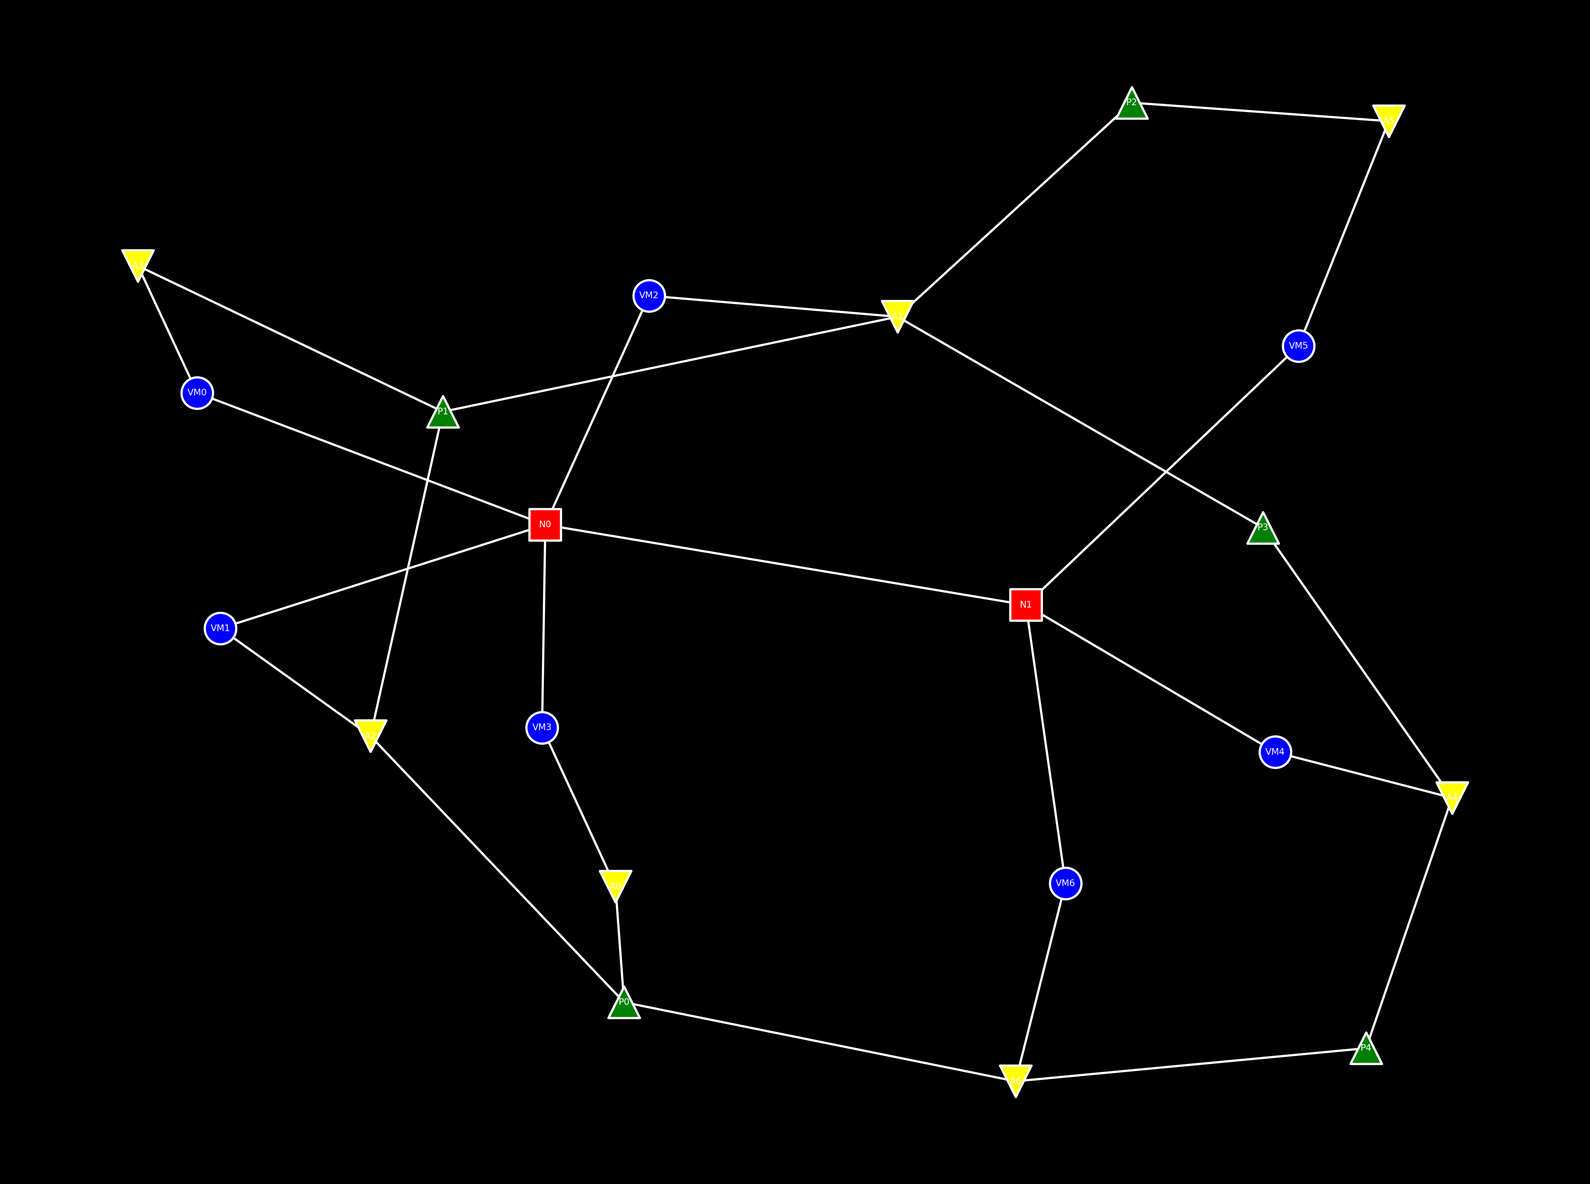
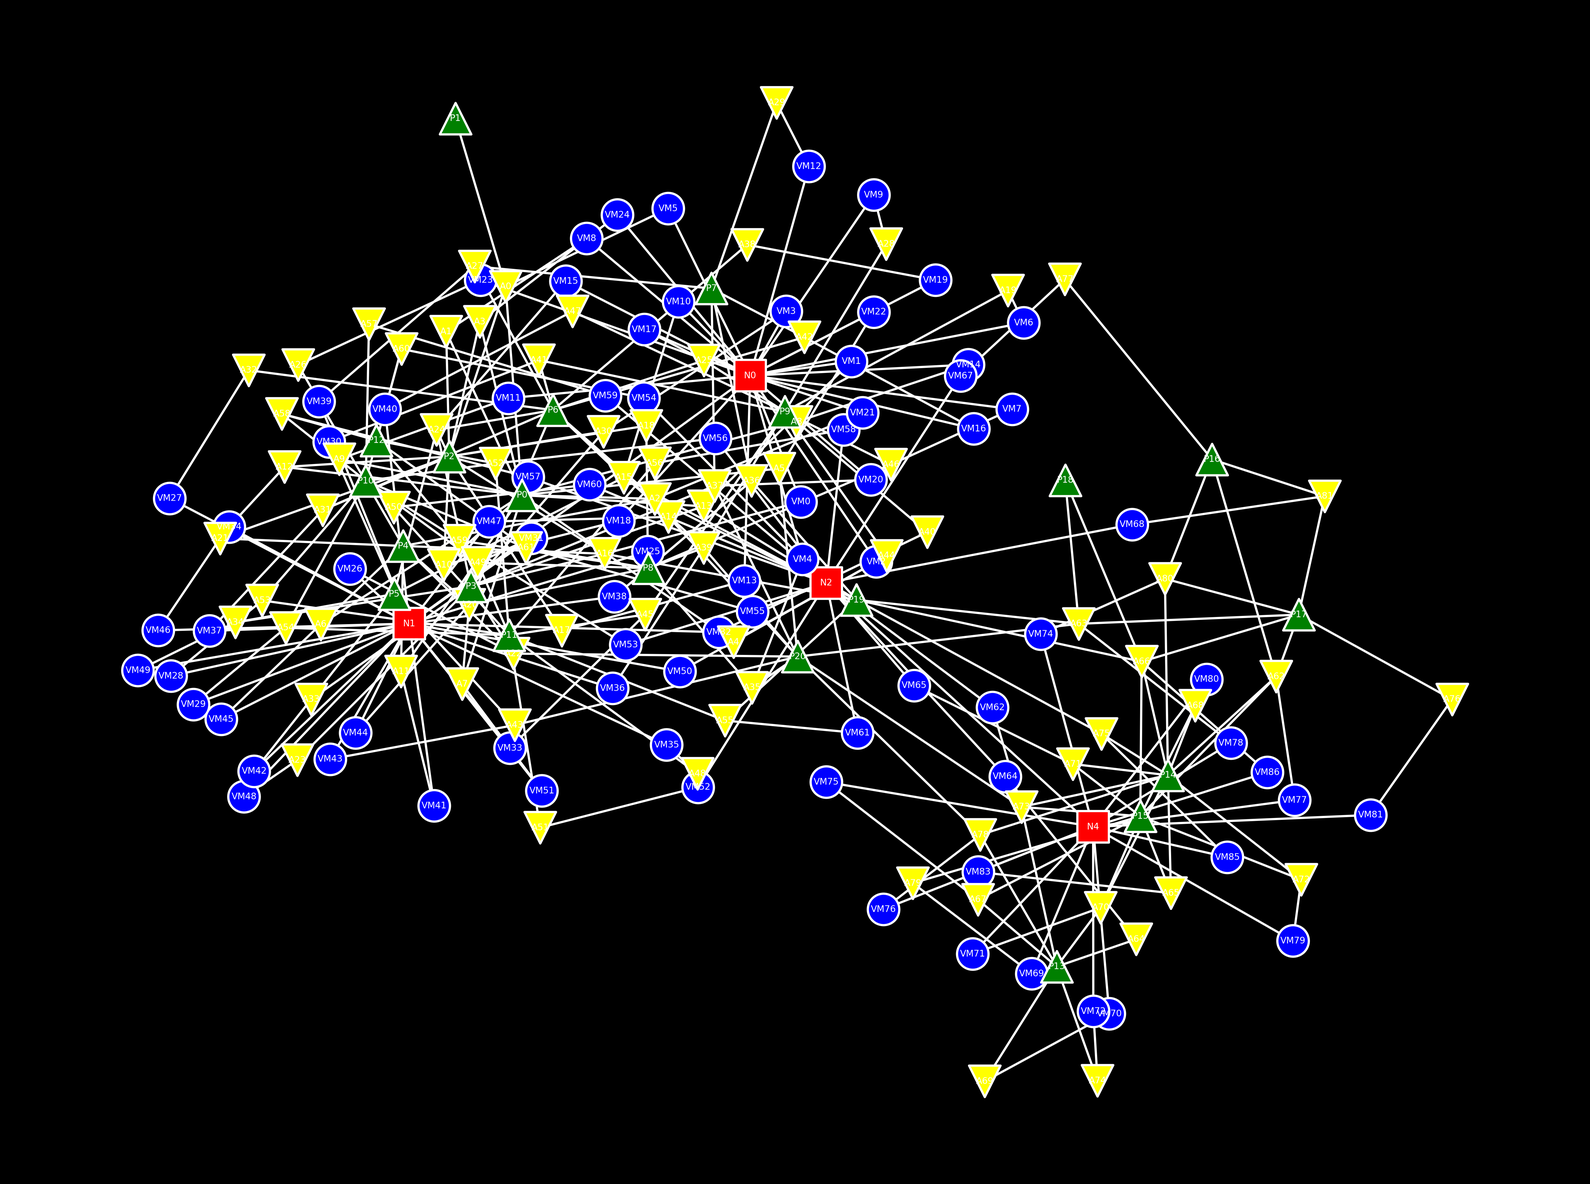
Refactored and cleaned up.

diff --git a/mal_sampler.py b/mal_sampler.py
@@ -4,8 +4,11 @@ import networkx as nx
 import matplotlib.pyplot as plt
 import sys
 
+from sample_metamodel import sample_metamodel
+
 # When resolving inconsistencies, upper and lower bounds on the number of assets are required. The bounds are generated by sampling from the distributions N_SAMPLES_FOR_BOUNDS times.
 N_SAMPLES_FOR_BOUNDS = 100
+MODEL_FILE_NAME = 'model.png'
 
 
 class ProbabilityDistribution:
@@ -154,7 +157,6 @@ class Model:
 
     def resolve_inconsistency(self):
         inconsistent_assets = self.check_consistency()
-        print(f'# Before forcing associations. Inconsistent assets: {len(inconsistent_assets)}. Assets: {len(self.all_assets())}.')
         counter = 0
         while inconsistent_assets:
             counter += 1
@@ -162,17 +164,12 @@ class Model:
                 self.complete_associations(
                     inconsistent_asset, force_associate=True)
             inconsistent_assets = self.check_consistency()
-            print(f'# Before removing assets. Inconsistent assets: {len(inconsistent_assets)}. Assets: {len(self.all_assets())}.')
             for inconsistent_asset in inconsistent_assets:
                 self.remove(inconsistent_asset)
-                print(
-                    f'Removed {inconsistent_asset.name} from the model. Remaining assets: {len(self.all_assets())}.')
             inconsistent_assets = self.check_consistency()
-            print(f'# After removing assets. Inconsistent assets: {len(inconsistent_assets)}. Assets: {len(self.all_assets())}.')
             if counter > 10:
                 print('Failed to resolve inconsistencies in 10 iterations.')
                 break
-        self.plot('model.png')
 
     def print(self):
         for asset_type in self.assets.keys():
@@ -203,210 +200,12 @@ class Model:
 
 
 if __name__ == "__main__":
-    midsized_metamodel = {'network': {'abbreviation': 'N',
-                                      'n': {'distribution': 'BinomialPlusOne',
-                                            'n': 30,
-                                            'p': 0.5},
-                                      'associated_assets': {
-                                          'network': {'distribution': 'BinomialPlusOne',
-                                                      'n': 500,
-                                                      'p': 0.005},
-                                          'vm_instance': {'distribution': 'Binomial',
-                                                          'n': 1000,
-                                                          'p': 0.005}},
-                                      'visualization': {'shape': 's',
-                                                        'color': 'red'}},
-                          'vm_instance': {'abbreviation': 'VM',
-                                          'n': {'distribution': 'BinomialPlusOne',
-                                                'n': 200,
-                                                'p': 0.5},
-                                          'associated_assets': {
-                                              'network': {'distribution': 'Constant',
-                                                          'n': 1},
-                                              'admin_privileges': {'distribution': 'Constant',
-                                                                   'n': 1}},
-                                          'visualization': {'shape': 'o',
-                                                            'color': 'blue'}},
-                          'admin_privileges': {'abbreviation': 'A',
-                                               'n': {'distribution': 'BinomialPlusOne',
-                                                     'n': 200,
-                                                     'p': 0.5},
-                                               'associated_assets': {
-                                                   'vm_instance': {'distribution': 'Constant',
-                                                                   'n': 1},
-                                                   'principal': {'distribution': 'BinomialPlusOne',
-                                                                 'n': 5,
-                                                                 'p': 0.1}},
-                                               'visualization': {'shape': 'v',
-                                                                 'color': 'yellow'}},
-                          'principal': {'abbreviation': 'P',
-                                        'n': {'distribution': 'BinomialPlusOne',
-                                              'n': 100,
-                                              'p': 0.05},
-                                        'associated_assets': {
-                                            'admin_privileges': {'distribution': 'Binomial',
-                                                                 'n': 200,
-                                                                 'p': 0.1}},
-                                        'visualization': {'shape': '^',
-                                                          'color': 'green'}}}
-
-    minimally_specified_metamodel = {'network': {'abbreviation': 'N',
-                                     'n': {'distribution': 'BinomialPlusOne',
-                                           'n': 30,
-                                           'p': 0.5},
-                                     'associated_assets': {
-                                         'network': {'distribution': 'BinomialPlusOne',
-                                                     'n': 500,
-                                                     'p': 0.005},
-                                         'vm_instance': {'distribution': 'Binomial',
-                                                         'n': 1000,
-                                                         'p': 0.005}},
-                                     'visualization': {'shape': 's',
-                                                       'color': 'red'}},
-                                     'vm_instance': {'abbreviation': 'VM',
-                                                     'associated_assets': {
-                                                         'network': {'distribution': 'Constant',
-                                                                     'n': 1},
-                                                         'admin_privileges': {'distribution': 'Constant',
-                                                                              'n': 1}},
-                                                     'visualization': {'shape': 'o',
-                                                                       'color': 'blue'}},
-                                     'admin_privileges': {'abbreviation': 'A',
-                                                          'associated_assets': {
-                                                              'vm_instance': {'distribution': 'Constant',
-                                                                              'n': 1},
-                                                              'principal': {'distribution': 'BinomialPlusOne',
-                                                                            'n': 5,
-                                                                            'p': 0.1}},
-                                                          'visualization': {'shape': 'v',
-                                                                            'color': 'yellow'}},
-                                     'principal': {'abbreviation': 'P',
-                                                   'associated_assets': {
-                                                       'admin_privileges': {'distribution': 'Binomial',
-                                                                            'n': 200,
-                                                                            'p': 0.1}},
-                                                   'visualization': {'shape': '^',
-                                                                     'color': 'green'}}}
-
-    minimal_constant_metamodel = {'network': {'abbreviation': 'N',
-                                              'n': {'distribution': 'Constant',
-                                                    'n': 3},
-                                              'associated_assets': {
-                                                  'network': {'distribution': 'Constant',
-                                                              'n': 2},
-                                                  'vm_instance': {'distribution': 'Constant',
-                                                                  'n': 3}},
-                                              'visualization': {'shape': 's',
-                                                                'color': 'red'}},
-                                  'vm_instance': {'abbreviation': 'VM',
-                                                  'associated_assets': {
-                                                      'network': {'distribution': 'Constant',
-                                                                  'n': 1},
-                                                      'admin_privileges': {'distribution': 'Constant',
-                                                                           'n': 1}},
-                                                  'visualization': {'shape': 'o',
-                                                                    'color': 'blue'}},
-                                  'admin_privileges': {'abbreviation': 'A',
-                                                       'associated_assets': {
-                                                           'vm_instance': {'distribution': 'Constant',
-                                                                           'n': 1},
-                                                           'principal': {'distribution': 'Constant',
-                                                                         'n': 1}},
-                                                       'visualization': {'shape': 'v',
-                                                                         'color': 'yellow'}},
-                                  'principal': {'abbreviation': 'P',
-                                                'associated_assets': {
-                                                    'admin_privileges': {'distribution': 'Constant',
-                                                                         'n': 2}},
-                                                'visualization': {'shape': '^',
-                                                                  'color': 'green'}}}
-
-    minimal_probabilistic_metamodel = {'network': {'abbreviation': 'N',
-                                                   'n': {'distribution': 'BinomialPlusOne',
-                                                         'n': 3,
-                                                         'p': 0.5},
-                                                   'associated_assets': {
-                                                       'network': {'distribution': 'BinomialPlusOne',
-                                                                   'n': 2,
-                                                                   'p': 0.5},
-                                                       'vm_instance': {'distribution': 'BinomialPlusOne',
-                                                                       'n': 30,
-                                                                       'p': 0.05}},
-                                                   'visualization': {'shape': 's',
-                                                                     'color': 'red'}},
-                                       'vm_instance': {'abbreviation': 'VM',
-                                                       'associated_assets': {
-                                                           'network': {'distribution': 'Constant',
-                                                                       'n': 1},
-                                                           'admin_privileges': {'distribution': 'Constant',
-                                                                                'n': 1}},
-                                                       'visualization': {'shape': 'o',
-                                                                         'color': 'blue'}},
-                                       'admin_privileges': {'abbreviation': 'A',
-                                                            'associated_assets': {
-                                                                'vm_instance': {'distribution': 'Constant',
-                                                                                'n': 1},
-                                                                'principal': {'distribution': 'BinomialPlusOne',
-                                                                              'n': 3,
-                                                                              'p': 0.5}},
-                                                            'visualization': {'shape': 'v',
-                                                                              'color': 'yellow'}},
-                                       'principal': {'abbreviation': 'P',
-                                                     'associated_assets': {
-                                                         'admin_privileges': {'distribution': 'BinomialPlusOne',
-                                                                              'n': 3,
-                                                                              'p': 0.5}},
-                                                     'visualization': {'shape': '^',
-                                                                       'color': 'green'}}}
-
-    size_factor = 10
-    metamodel_of_adjustable_size = {'network': {'abbreviation': 'N',
-                                                'n': {'distribution': 'BinomialPlusOne',
-                                                      'n': 1*size_factor,
-                                                      'p': 0.5},
-                                                'associated_assets': {
-                                                    'network': {'distribution': 'BinomialPlusOne',
-                                                                'n': 10,
-                                                                'p': 0.1},
-                                                    'vm_instance': {'distribution': 'Binomial',
-                                                                    'n': 10*size_factor,
-                                                                    'p': 0.05}},
-                                                'visualization': {'shape': 's',
-                                                                           'color': 'red'}},
-                                    'vm_instance': {'abbreviation': 'VM',
-                                                    'n': {'distribution': 'BinomialPlusOne',
-                                                          'n': 5*size_factor,
-                                                          'p': 0.5},
-                                                    'associated_assets': {
-                                                        'network': {'distribution': 'Constant',
-                                                                    'n': 1},
-                                                        'admin_privileges': {'distribution': 'Constant',
-                                                                             'n': 1}},
-                                                    'visualization': {'shape': 'o',
-                                                                               'color': 'blue'}},
-                                    'admin_privileges': {'abbreviation': 'A',
-                                                         'n': {'distribution': 'BinomialPlusOne',
-                                                               'n': 5*size_factor,
-                                                               'p': 0.5},
-                                                         'associated_assets': {
-                                                             'vm_instance': {'distribution': 'Constant',
-                                                                             'n': 1},
-                                                             'principal': {'distribution': 'BinomialPlusOne',
-                                                                           'n': 10,
-                                                                           'p': 0.1}},
-                                                         'visualization': {'shape': 'v',
-                                                                                    'color': 'yellow'}},
-                                    'principal': {'abbreviation': 'P',
-                                                  'n': {'distribution': 'BinomialPlusOne',
-                                                        'n': 10*size_factor,
-                                                        'p': 0.05},
-                                                  'associated_assets': {
-                                                      'admin_privileges': {'distribution': 'Binomial',
-                                                                           'n': 2*size_factor,
-                                                                           'p': 0.1}},
-                                                  'visualization': {'shape': '^',
-                                                                             'color': 'green'}}}
-
-    model = Model(metamodel_of_adjustable_size)
+    metamodel = sample_metamodel(size_factor=40)
+    print(f'# Metamodel containing these assets: {[a for a in metamodel.keys()]}')
+    model = Model(metamodel)
     model.sample()
+    print(f'# Sampled a model containing {len(model.all_assets())} assets.')
     model.resolve_inconsistency()
+    print(f'# After resolving inconsistencies, model contains {len(model.all_assets())} assets.')
+    model.plot(MODEL_FILE_NAME)
+    print(f'# Model plotted in {MODEL_FILE_NAME}.')

diff --git a/sample_metamodel.py b/sample_metamodel.py
@@ -1,0 +1,49 @@
+def sample_metamodel(size_factor = 10):
+    metamodel_of_adjustable_size = {'network': {'abbreviation': 'N',
+                                                'n': {'distribution': 'BinomialPlusOne',
+                                                      'n': 1*size_factor,
+                                                      'p': 0.5},
+                                                'associated_assets': {
+                                                    'network': {'distribution': 'BinomialPlusOne',
+                                                                'n': 10,
+                                                                'p': 0.1},
+                                                    'vm_instance': {'distribution': 'Binomial',
+                                                                    'n': 10*size_factor,
+                                                                    'p': 0.05}},
+                                                'visualization': {'shape': 's',
+                                                                           'color': 'red'}},
+                                    'vm_instance': {'abbreviation': 'VM',
+                                                    'n': {'distribution': 'BinomialPlusOne',
+                                                          'n': 5*size_factor,
+                                                         'p': 0.5},
+                                                    'associated_assets': {
+                                                        'network': {'distribution': 'Constant',
+                                                                    'n': 1},
+                                                        'admin_privileges': {'distribution': 'Constant',
+                                                                             'n': 1}},
+                                                    'visualization': {'shape': 'o',
+                                                                               'color': 'blue'}},
+                                    'admin_privileges': {'abbreviation': 'A',
+                                                         'n': {'distribution': 'BinomialPlusOne',
+                                                               'n': 5*size_factor,
+                                                               'p': 0.5},
+                                                         'associated_assets': {
+                                                             'vm_instance': {'distribution': 'Constant',
+                                                                             'n': 1},
+                                                             'principal': {'distribution': 'BinomialPlusOne',
+                                                                           'n': 10,
+                                                                           'p': 0.1}},
+                                                         'visualization': {'shape': 'v',
+                                                                                    'color': 'yellow'}},
+                                    'principal': {'abbreviation': 'P',
+                                                  'n': {'distribution': 'BinomialPlusOne',
+                                                        'n': 10*size_factor,
+                                                        'p': 0.05},
+                                                  'associated_assets': {
+                                                      'admin_privileges': {'distribution': 'Binomial',
+                                                                           'n': 2*size_factor,
+                                                                           'p': 0.1}},
+                                                  'visualization': {'shape': '^',
+                                                                             'color': 'green'}}}
+
+    return metamodel_of_adjustable_size
